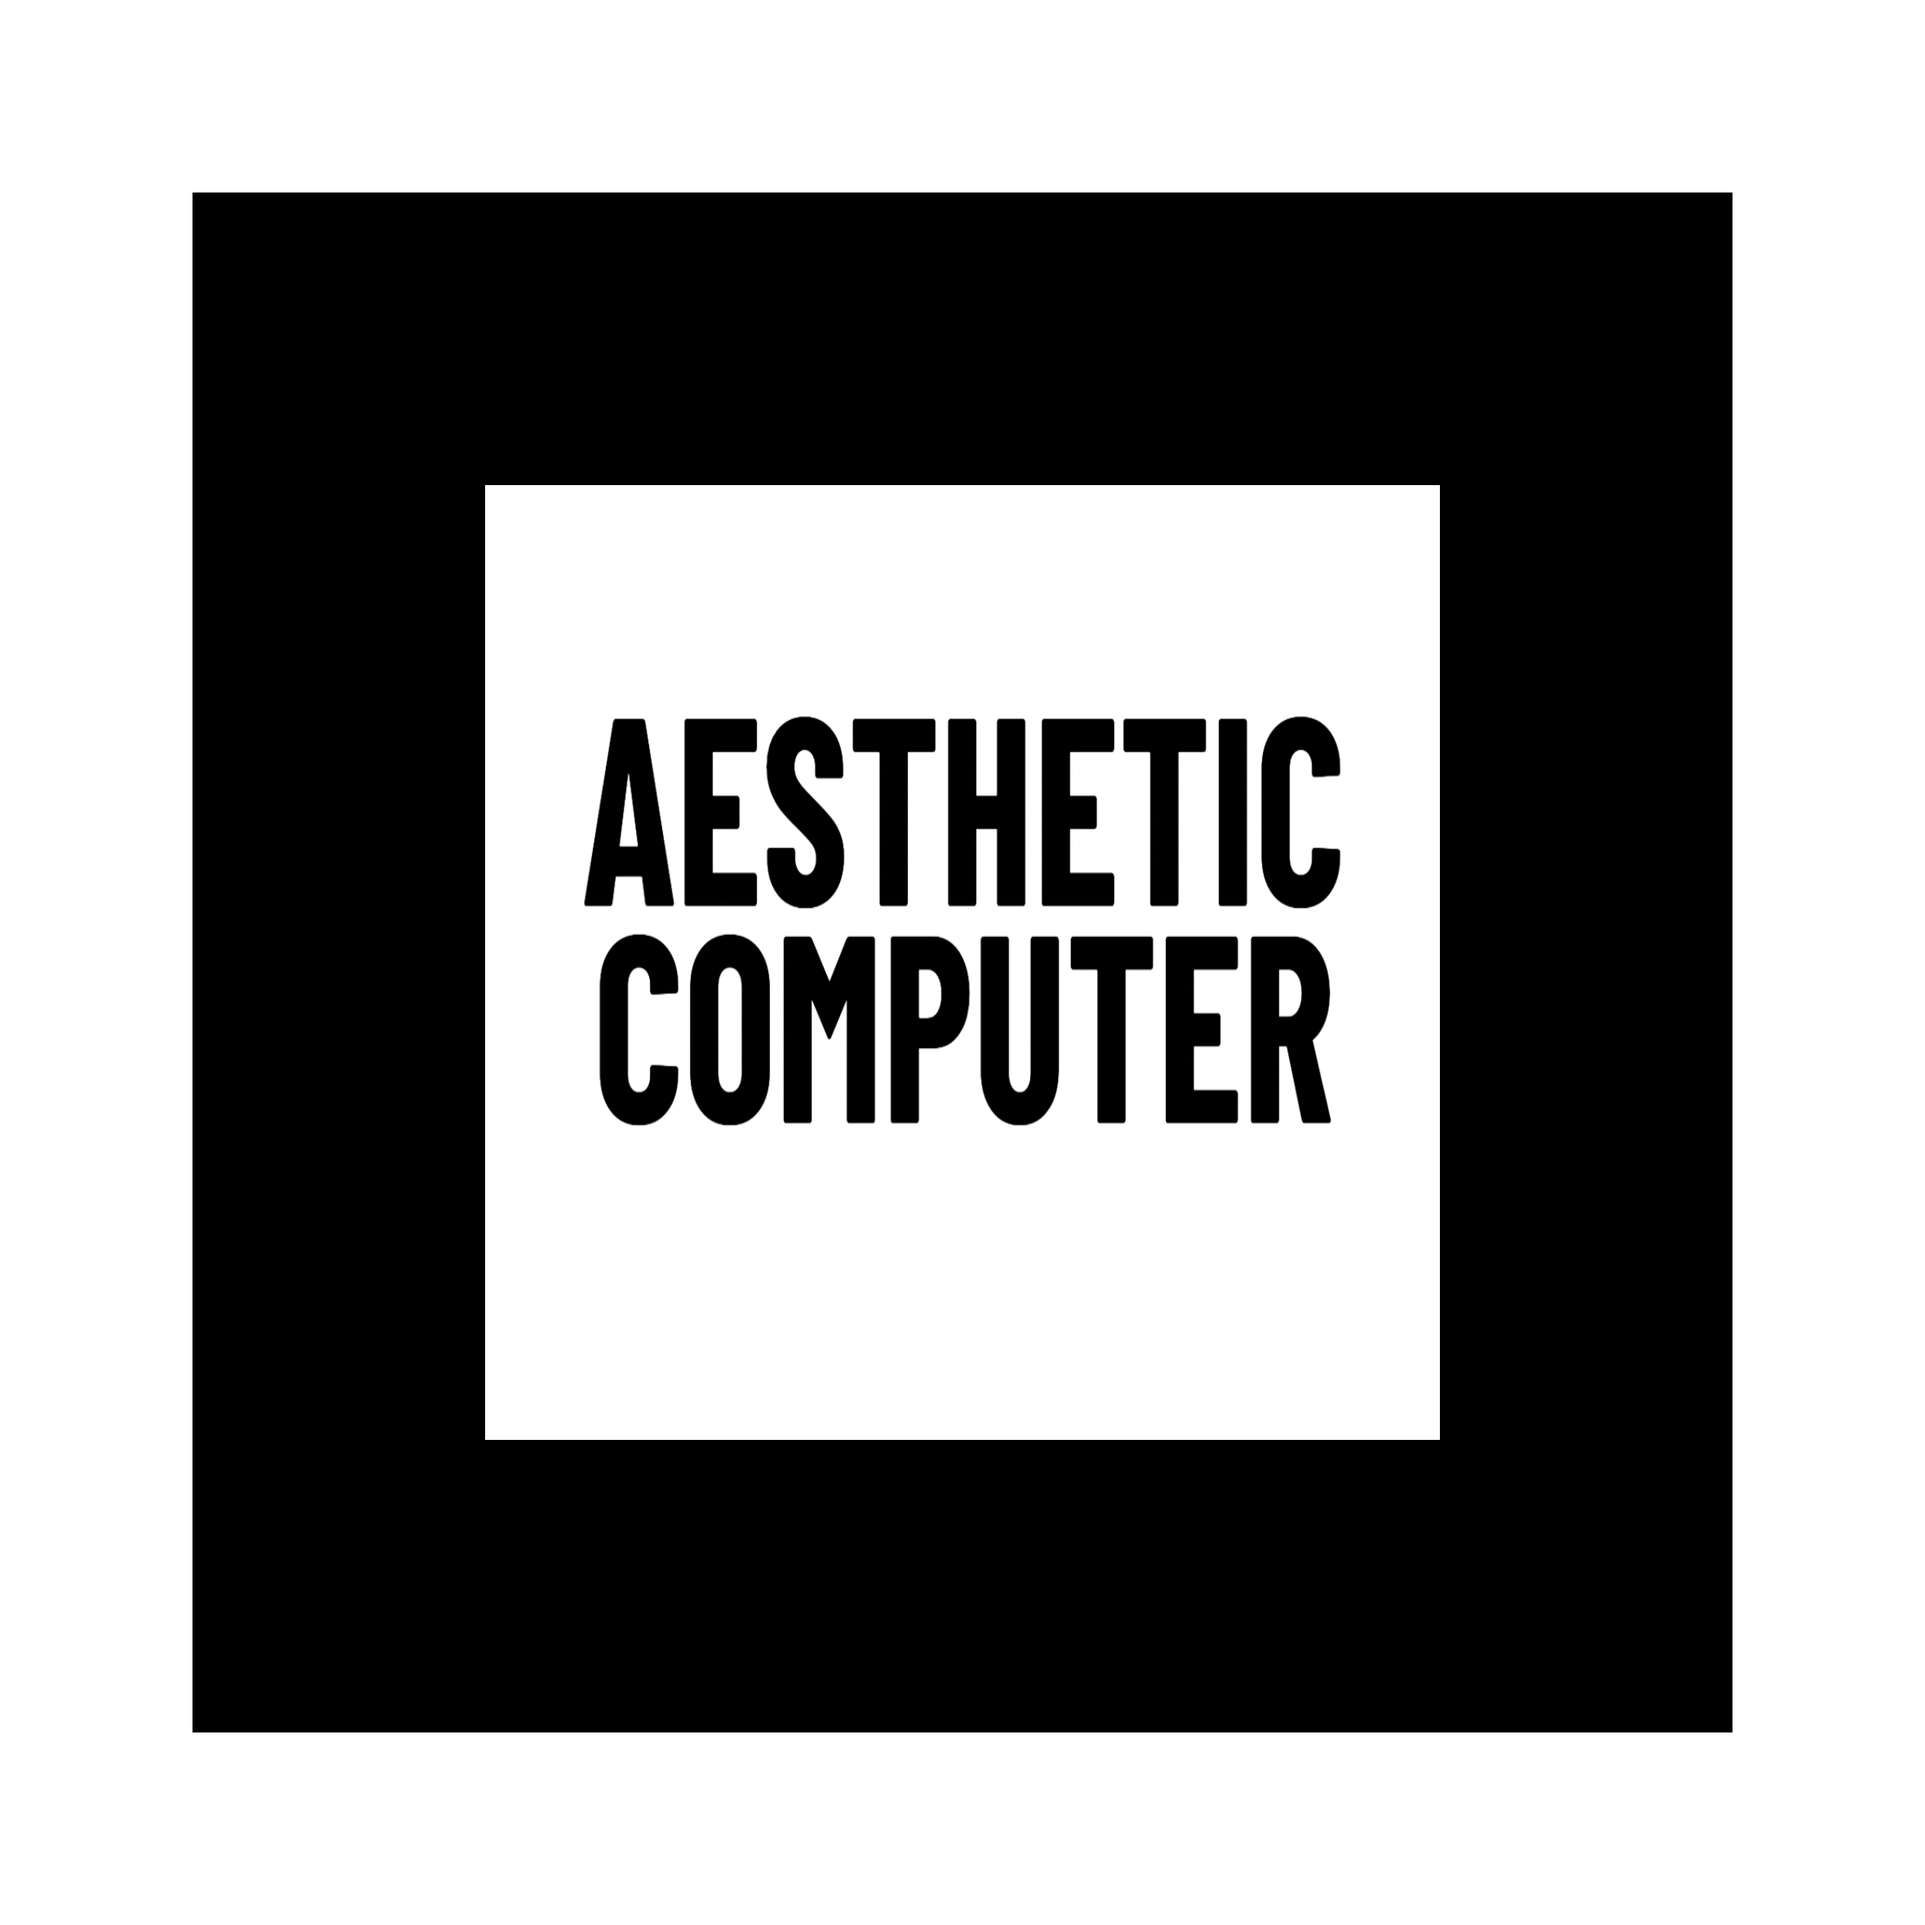
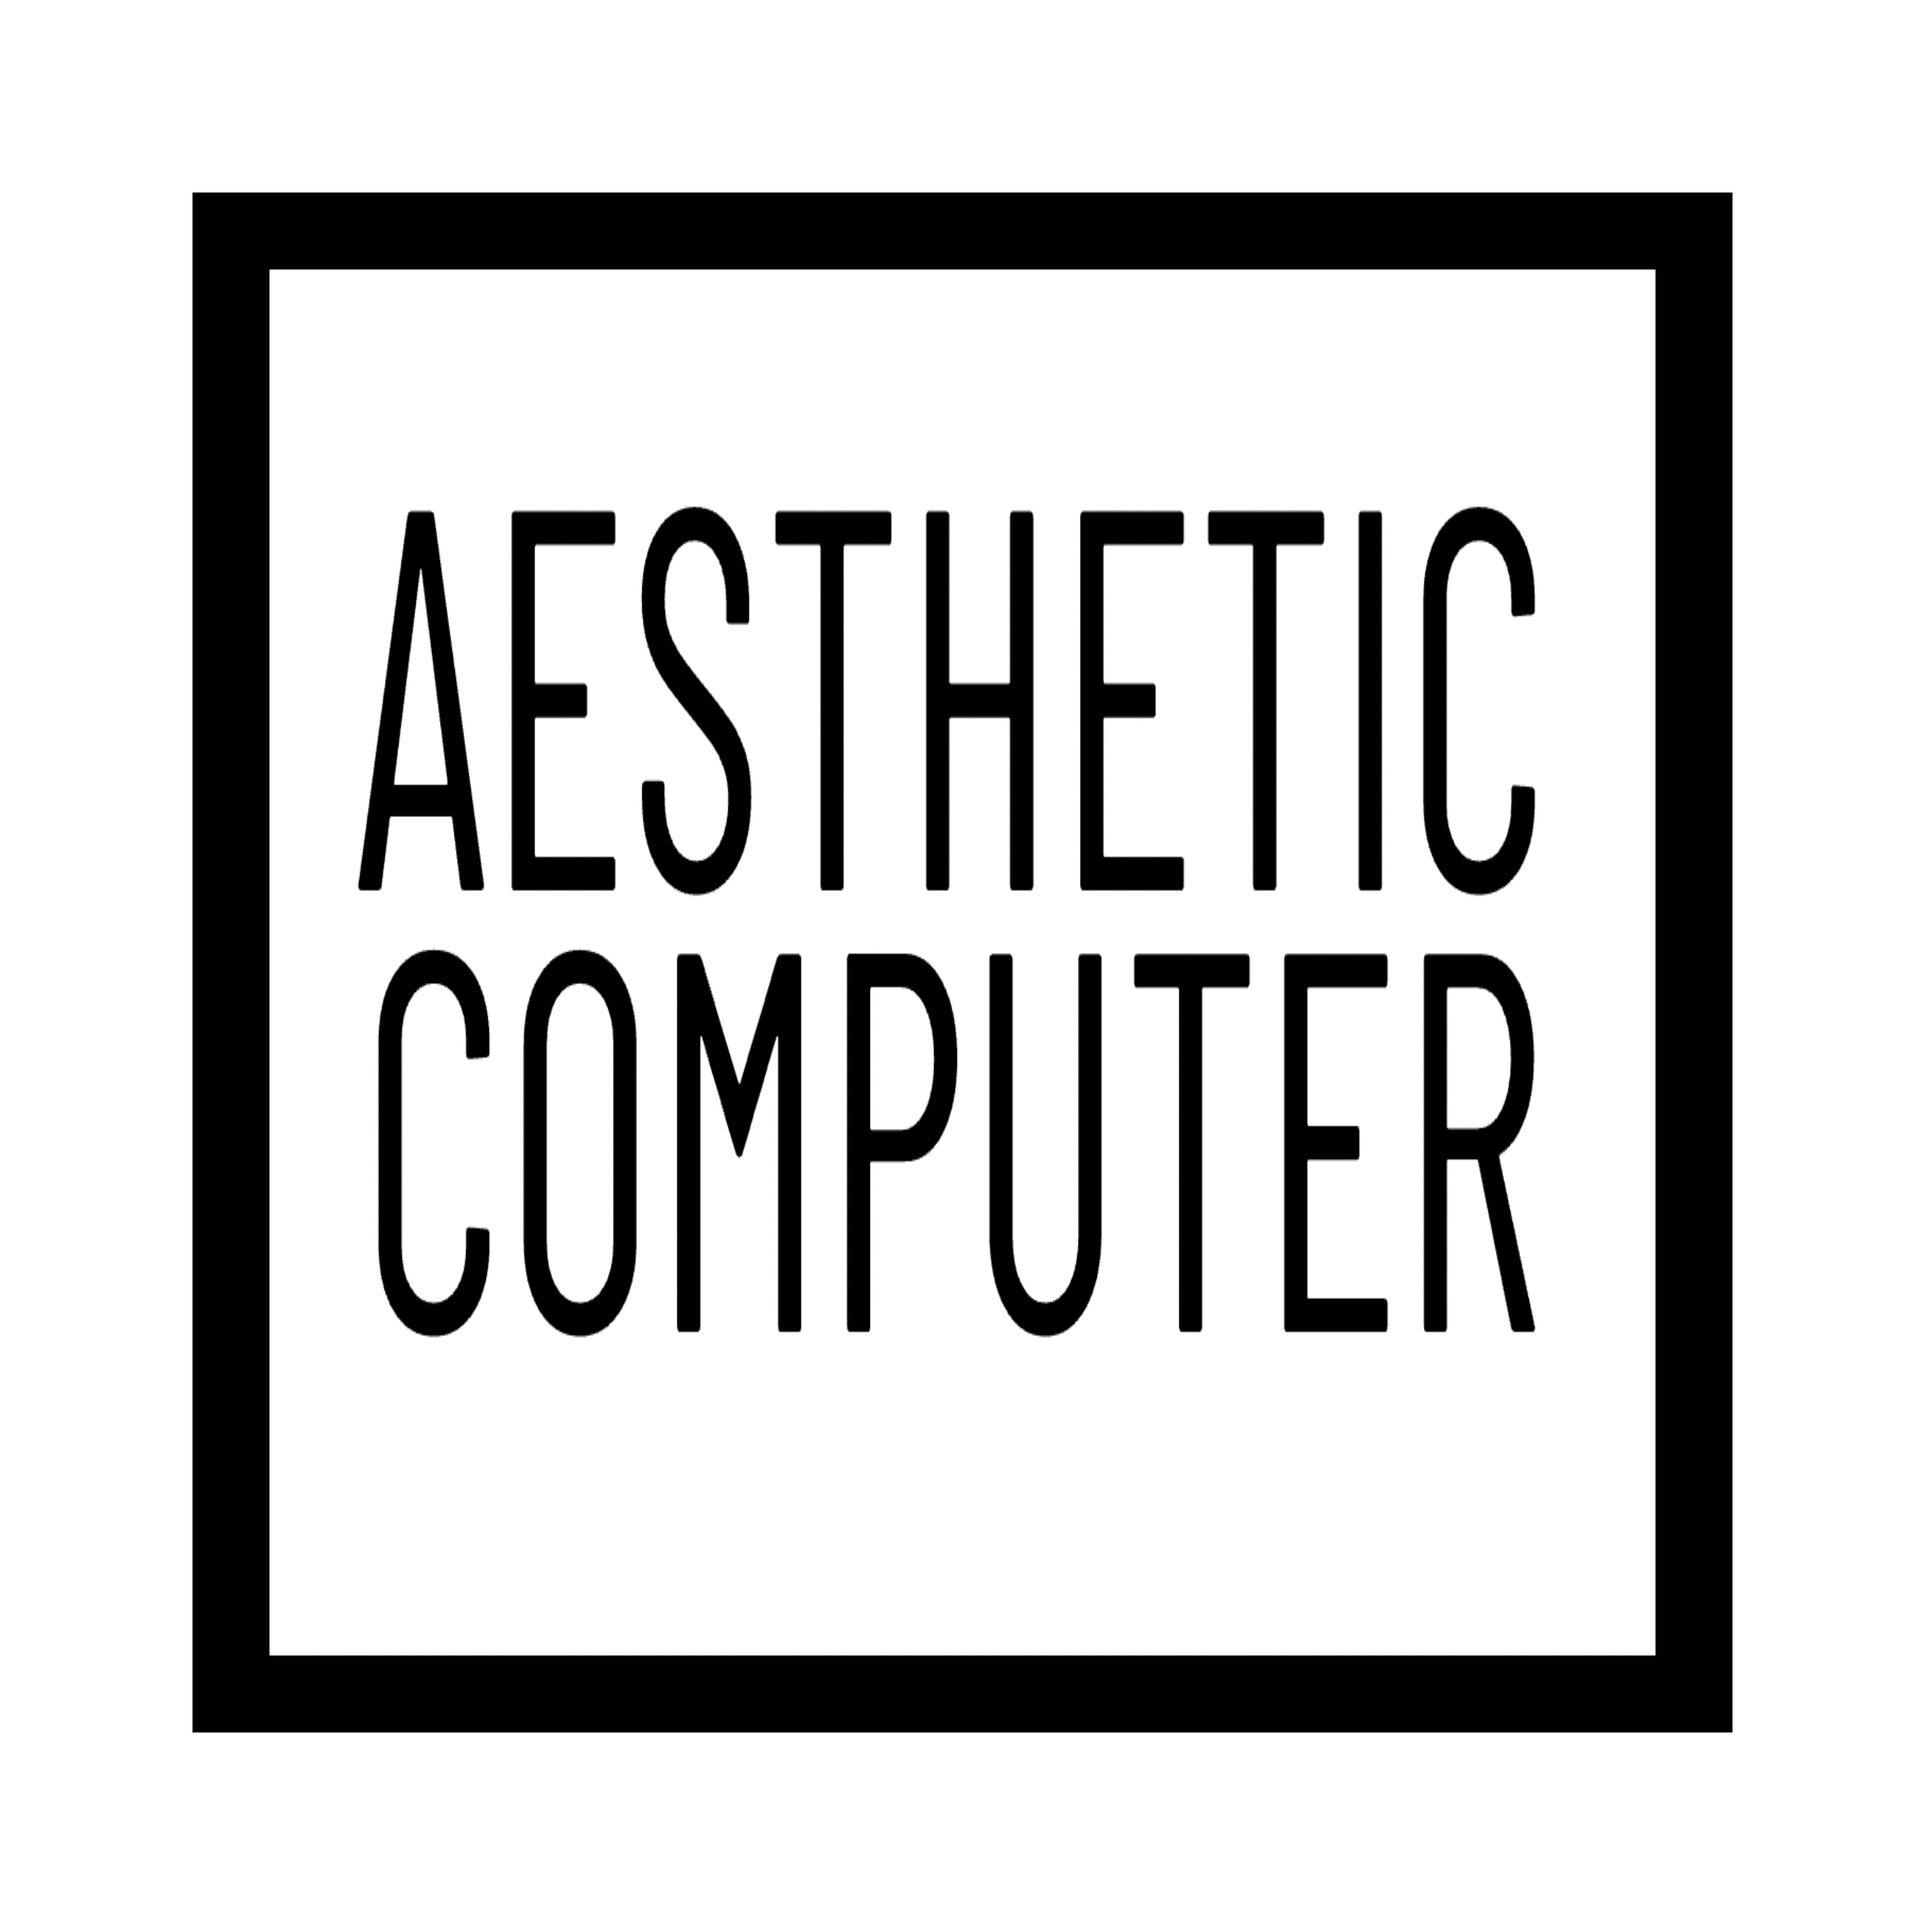
fixing the titles again

diff --git a/index.html b/index.html
@@ -182,7 +182,7 @@
             <div class="flipper">
               <div class="front">
                 <img
-                  src="imgs/marker/pattern-readyCompanion.png"
+                  src="imgs/marker/pattern-readyCompanion (1).png"
                   alt="scan artist title"
                 />
               </div>
